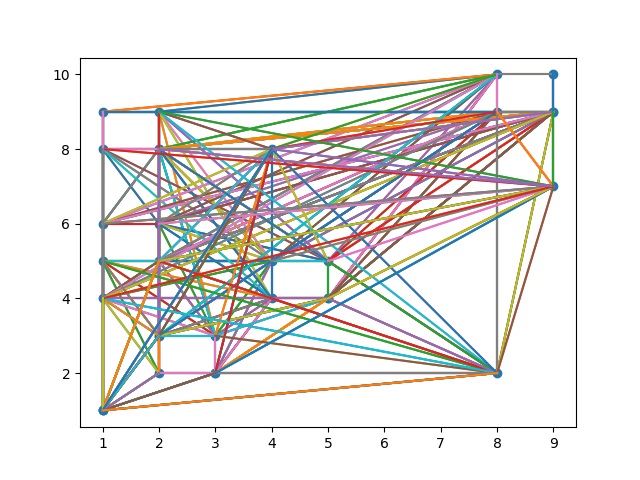
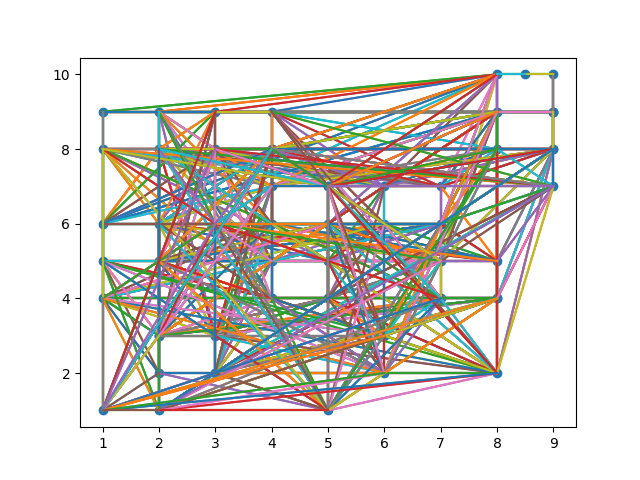
fix dijkstras

diff --git a/objects/environment.py b/objects/environment.py
@@ -33,10 +33,11 @@ class Environment():
 
         for i in range(self.time):
             for bot in self.bots:
-                if bot.casualty_number is None:
-                    self.assign_casualty(bot)
-                if self.obstacles:
-                    self.plan_bot_trajectory(bot)
+                if not bot.finished:
+                    if bot.casualty_number is None:
+                        self.assign_casualty(bot)
+                    if self.obstacles and not bot.next_point and bot.casualty_number is not None:
+                        self.plan_bot_trajectory(bot)
 
                 self.update_bot_input(bot)
 
@@ -49,7 +50,9 @@ class Environment():
             if i % 10 == 0:
                 self.save_plot(x, y, i)
                 print("Iteration: " + str(i))
-                self.env_check()
+                for i, bot in enumerate(self.bots):
+                    print(i, bot.casualty_number)
+                # self.env_check()
 
 
     def env_check(self):
@@ -60,8 +63,13 @@ class Environment():
 
 
     def plan_bot_trajectory(self, bot):
-        
-        pass
+        # if bot.casualty_number:
+        bot.next_point = self.graph_object.dijkstras(bot.location, [self.casualties[bot.casualty_number][0], self.casualties[bot.casualty_number][1]])
+        # else:
+        #     bot.next_point = [bot.location]
+        # if not bot.next_point:
+
+
         # plan bot trajectory (the next set of points it should visit)
 
 
@@ -72,14 +80,20 @@ class Environment():
         if bot.casualty_number is not None:
 
             casualty = self.env.casualties[bot.casualty_number]
+
             if math.dist(bot.location, [casualty[0], casualty[1]]) < self.globals.min_dist_from_casualty:
                 bot.aiding_timer += 1
                 bot.input = [0, 0]
                 bot.aiding = True
+                bot.location = [casualty[0], casualty[1]]
+
+            elif self.obstacles and math.dist(bot.location, [bot.next_point[0][0], bot.next_point[0][1]]) < self.globals.min_dist_from_casualty:
+                bot.location = [bot.next_point[0][0], bot.next_point[0][1]]
+                bot.next_point.pop(0)
 
             if bot.aiding_timer == 0:
                 if self.obstacles:
-                    casualty_vec = np.array([[bot.next_point[0]], [bot.next_point[1]]])
+                    casualty_vec = np.array([[bot.next_point[0][0]], [bot.next_point[0][1]]])
                 else:
                     casualty_vec = np.array([[casualty[0]], [casualty[1]]])
 
@@ -88,14 +102,14 @@ class Environment():
                 directional_norm = list(diff_vec / np.sqrt(np.sum(diff_vec**2)))
                 bot.input = [directional_norm[0][0], directional_norm[1][0]]
 
-            elif bot.aiding_timer >= 5:
+            elif bot.aiding_timer >= 10:
                 self.env.casualties[bot.casualty_number][2] = 'v'
                 bot.aiding_timer = 0
                 bot.casualty_number = None
                 bot.aiding = False
+                bot.next_point = None
             else:
                 bot.aiding_timer += 1
-
         else:
             bot.input = [0, 0]
 
@@ -117,6 +131,8 @@ class Environment():
             bot.aiding = True
             bot.casualty_number = casualty_number
             self.env.casualties[casualty_number][3] = True
+        else:
+            bot.finished = True
 
 
     def update(self):
@@ -132,6 +148,7 @@ class Environment():
         plt.axes(ax)
         for i in range(len(self.env.casualties)):
             plt.scatter(self.casualties[i][0], self.casualties[i][1], marker=self.casualties[i][2], color='r')
+            plt.text(self.casualties[i][0], self.casualties[i][1], str(i))
 
         ax.set_aspect('equal', 'datalim')
 

diff --git a/objects/graph.py b/objects/graph.py
@@ -57,7 +57,7 @@ class Graph():
         plt.scatter(x, y)
 
         for edge in self.edges:
-            plt.plot(*edge.xy)
+            plt.plot(*edge[0].xy)
 
         plt.savefig(os.getcwd() + "/graph.png")
 
@@ -70,7 +70,7 @@ class Graph():
             if obstacle.contains(line):
                 return False
 
-        self.edges.append(line)
+        self.edges.append([line, line.length, end])
         return True
 
 
@@ -88,4 +88,60 @@ class Graph():
 
 
     def dijkstras(self, init, end):
-        pass
+
+        def minDistance(dist, sptSet):
+            min_ = 1e7
+            min_index = 1e7
+
+            for v in range(len(self.graph)):
+                if dist[v] < min_ and sptSet[v] == False:
+                    min_ = dist[v]
+                    min_index = v
+
+            return min_index
+
+        def checkExistance(init, end):
+            node1edges = [node.location for node in self.graph[init].edges]
+            node2location = self.graph[end].location
+            for edge in node1edges:
+                if node2location == edge:
+                    return edge[1]
+            return False
+
+        num_vertices = len(self.graph)
+        dist = [1e7] * num_vertices
+        prev = [None] * num_vertices
+
+        start = None
+        for i, node in enumerate(self.graph):
+            if node.location == init:
+                start = i
+            if node.location == end:
+                end = i
+
+        dist[start] = 0
+        sptSet = [False] * num_vertices
+
+        for _ in range(num_vertices):
+
+            if dist[end] < 1e7:
+                break
+
+            u = minDistance(dist, sptSet)
+            sptSet[u] = True
+
+            for v in range(num_vertices):
+                length = checkExistance(u, v)
+                if length:
+                    if sptSet[v] == False and dist[v] > dist[u] + length:
+                        dist[v] = dist[u] + length
+                        prev[v] = u
+
+        curr = end
+        steps = []
+        while curr != start:
+            steps.insert(0, self.graph[curr].location)
+            curr = prev[curr]
+
+        print(steps)
+        return steps

diff --git a/objects/environment_generator.py b/objects/environment_generator.py
@@ -8,6 +8,7 @@ import os
 
 
 class Environment_Generator():
+    
     def __init__(self, params):
         self.params = params
         self.obstacles = []
@@ -58,8 +59,8 @@ class Environment_Generator():
                 self.obstacles.append(r1)
         else:
             # manually added obstacles for consistency during testing
-            # obstacles = [[1, 5], [2,2], [1, 8], [4, 4], [8, 9], [6,6], [7, 4], [8, 8], [3, 8], [4, 6]]
-            obstacles = [[1, 5], [2,2], [1, 8], [4, 4], [8, 9]]
+            obstacles = [[1, 5], [2,2], [1, 8], [4, 4], [8, 9], [6,6], [7, 4], [8, 8], [3, 8], [4, 6]]
+            # obstacles = [[1, 5], [2,2], [1, 8], [4, 4], [8, 9]]
 
             for obstacle in obstacles:
                 r1 = sg.box(obstacle[0], obstacle[1], obstacle[0] + 1, obstacle[1] + 1)

diff --git a/objects/bot.py b/objects/bot.py
@@ -14,11 +14,13 @@ class Bot():
         self.aiding_timer = 0
         self.aiding = False
         self.trajectory = [location]
+        self.finished = False
 
 
     def update(self):
-        self.location[0] += self.k * self.input[0]
-        self.location[1] += self.k * self.input[1]
-        self.trajectory.append(self.location)
-        # print(self.trajectory)
-        self.input = np.array([0, 0])
+        if not self.finished:
+            self.location[0] += self.k * self.input[0]
+            self.location[1] += self.k * self.input[1]
+            self.trajectory.append(self.location)
+            # print(self.trajectory)
+            self.input = np.array([0, 0])

diff --git a/test.py b/test.py
@@ -6,7 +6,7 @@ from objects.bot import Bot
 
 
 
-bots = [Bot([1, 1]), Bot([1, 1]), Bot([1, 1])]
+bots = [Bot([8.5, 10]), Bot([2, 1]), Bot([1, 1])]
 
 globals = Globals()
 environment = Environment(globals, bots)

diff --git a/globals.py b/globals.py
@@ -21,6 +21,6 @@ class Globals():
     num_casualties = 10
 
 
-    time = 201
+    time = 401
 
     min_dist_from_casualty = 0.1
